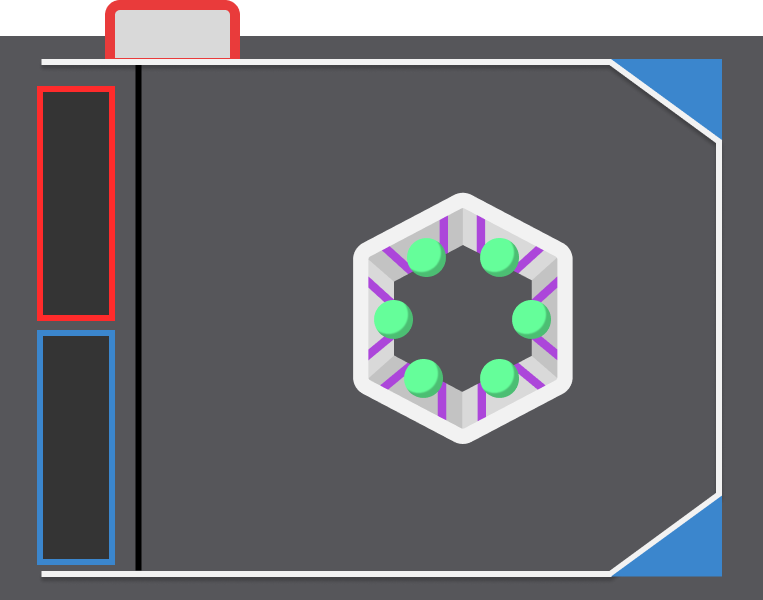
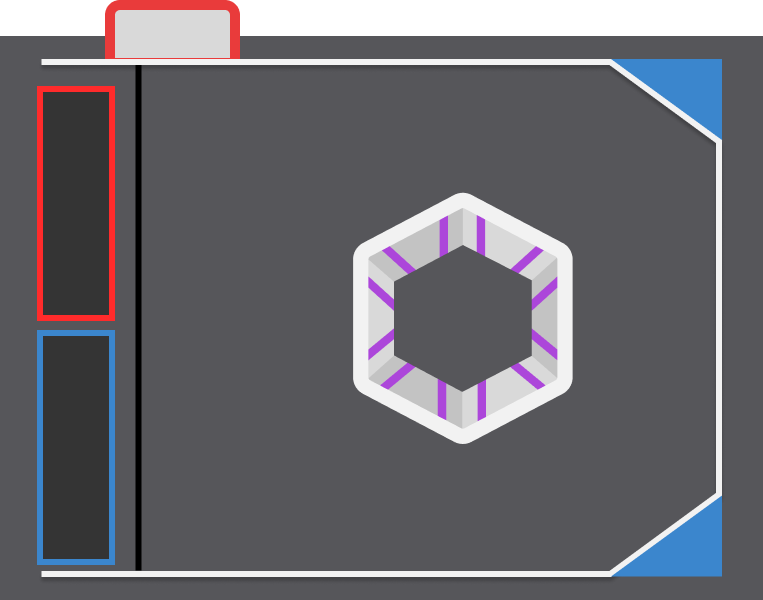
scorable algae

diff --git a/client/static/scripts/data_collection/AlgaeMap.js b/client/static/scripts/data_collection/AlgaeMap.js
@@ -1,0 +1,63 @@
+import { consoleLog } from "../utility.js"
+import Algae from "./Algae.js"
+import DrawableObject from "./DrawableObject.js"
+import GamePiece from "./GamePiece.js"
+
+export default class AlgaeMap {
+    constructor({ ctx, allianceColor, images, pieceData, renderQueue, canvasSize, isAuton}) {
+        this.renderQueue = renderQueue
+        this.algae = []
+        const isBlue = allianceColor == "B" 
+        //Add Pickup Wing Notes ge_key 202-204
+        //Wing Notes
+        if (isAuton) {
+            const dist = canvasSize.x * 0.1
+            const startAng = 0
+            const ctr = [canvasSize.x * 0.575, canvasSize.y * 0.49]
+            for (let i = 0; i < 6; ++i) {
+                this.algae.push(new Algae({
+                    x: ctr[0] + dist*Math.cos(startAng - Math.PI/3*i),
+                    y: ctr[1] + dist*Math.sin(startAng - Math.PI/3*i),
+                    ctx,
+                    images,
+                    renderQueue, 
+                    isSelected: false,
+                    ge_key: 125,
+                    text: String.fromCharCode(65+i),
+                    isBlue,
+                    zIndex: 999999,
+                    canvasSize
+                }))  
+            }
+        }
+
+        //console.log(this.pieces)
+    }
+
+    onClick({ x, y }) {
+        let res = null
+        this.algae.forEach(function(algae) {
+            if (!res && algae.onClick({ x, y })) {
+                res = algae
+            }
+        })
+
+        return res ?? false
+    }
+
+    sendData() {
+        const data = {}
+
+        for (const x of this.algae) {
+            data[x.ge_key] = val
+        }
+
+        return data
+    }
+
+    draw() {
+        this.algae.forEach(function (algae) {
+            algae.draw()
+        })
+    }
+}

diff --git a/client/static/scripts/data_collection/Auton.js b/client/static/scripts/data_collection/Auton.js
@@ -5,6 +5,7 @@ import RobotMap from "./RobotMap.js"
 import Legend from "./Legend.js"
 import RenderQueue from "./RenderQueue.js"
 import CoralScreen from "./coral_screen/CoralScreen.js"
+import AlgaeMap from "./AlgaeMap.js"
 
 const helpText = `1. Drag robot approx. start pos
 2. Click on reef to select where and which level piece was scored
@@ -23,6 +24,7 @@ export default class {
         this.clickable = {}
         this.clickable.robots = new RobotMap({ctx, renderQueue: this.renderQueue, allianceColor, images, robotStartingPercent: robotData, canvasSize: this.canvasSize})
         this.clickable.pieces = new PiecesMap({ctx, isAuton: true, renderQueue: this.renderQueue, allianceColor, img: "circle", pieceData: autonPieceData, canvasSize: this.canvasSize})
+        this.clickable.algae =  new AlgaeMap({ctx, isAuton: true, renderQueue: this.renderQueue, allianceColor, images: images, pieceData: autonPieceData, canvasSize: this.canvasSize})
         this.legend = new Legend({ctx, renderQueue: this.renderQueue, img: images.legendButton, canvasSize: this.canvasSize, text: helpText})
         this.coralScreens = {}
 
@@ -43,6 +45,9 @@ export default class {
             if (cRes) {
                 this.coralScreens[cRes.text].isSelected = true
             }
+
+            const aRes = this.clickable.algae.onClick({x, y})
+            
         } else {
             Object.values(this.coralScreens).forEach(e => e.onClick({x, y}))
         }
@@ -72,6 +77,7 @@ export default class {
         this.map.draw()
         this.clickable.robots.draw()
         this.clickable.pieces.draw()
+        this.clickable.algae.draw()
         this.legend.draw()
         Object.values(this.coralScreens).forEach(e => {
             e.draw()

diff --git a/client/static/scripts/data-collection.js b/client/static/scripts/data-collection.js
@@ -218,9 +218,13 @@ function loadData() {
         reefRightImage.src = `./static/images/data-collection/${allianceColor == 'B' ? "blue" : "red"}-reef-right.png`
         const clickAreaImage = new Image()
         clickAreaImage.src = `./static/images/data-collection/click-area.png`
+        const algaeImage = new Image()
+        algaeImage.src = `./static/images/data-collection/algae.png`
+        const algaeSelectedImage = new Image()
+        algaeSelectedImage.src = `./static/images/data-collection/algae-selected.png`
         const proceedBtnImage = new Image()
         proceedBtnImage.src = `./static/images/data-collection/proceed-btn-${allianceColor == 'B' ? "blue" : "red"}.png`
-        const images = { gamePieceImage, robotImage, mapImage, robotContainerImage, legendButton, robotStartPosImage, proceedBtnImage, reefLeftImage, reefRightImage, clickAreaImage }
+        const images = { gamePieceImage, algaeImage, algaeSelectedImage, robotImage, mapImage, robotContainerImage, legendButton, robotStartPosImage, proceedBtnImage, reefLeftImage, reefRightImage, clickAreaImage }
 
         await waitUntilImagesLoaded(Object.values(images))
 

diff --git a/client/static/scripts/data_collection/Algae.js b/client/static/scripts/data_collection/Algae.js
@@ -1,0 +1,24 @@
+import DrawableObject from "./DrawableObject.js"
+
+export default class Algae extends DrawableObject {
+    constructor({ctx, renderQueue, images, canvasSize, x,y, zIndex}) {
+        super({ctx, renderQueue, text: "", img: images.algaeImage, r: 90, x, sX: canvasSize.x * 0.065, sY: canvasSize.x * 0.065, textSize:Math.round(canvasSize.x*0.025) , y, radius: canvasSize.x * 0.032, canvasSize, zIndex: 5})
+        this.isSelected = false
+        this.unselectedImg = images.algaeImage
+        this.selectedImg = images.algaeSelectedImage
+    }
+
+    draw() {
+        this.img = this.isSelected ? this.selectedImg : this.unselectedImg
+        super.draw()
+    }
+
+    onClick({ x, y }) {
+        if (super.inBoundingRadius({ x, y })) {
+            this.isSelected = !this.isSelected
+            return true
+        }
+        return false
+    }
+
+}
